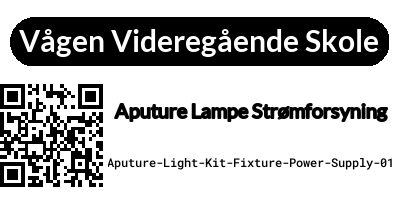
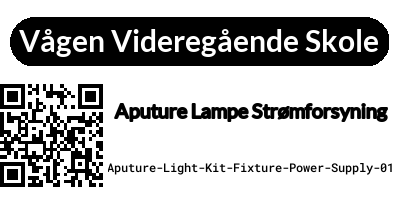
Migrate to Zebra - test docker

Changed region(s): [[0.2707, 0.7536, 0.9925, 0.8406]]

diff --git a/src/app.py b/src/app.py
@@ -1,40 +1,21 @@
 import io
 import os
-import time
 import atexit
 import signal
 from functools import wraps
 from threading import Thread
-
+from flask_cors import CORS
 import PIL.Image
 import flask
-# import usb.core
-# from brother_ql.backends.helpers import send
-# from brother_ql.conversion import convert
-# from brother_ql.raster import BrotherQLRaster
+from zebra import Zebra
+import zpl
 from dotenv import load_dotenv
-# from flask_cors import CORS
 
 from LabelGenerator import create_label, InventoryItem, LabelType
 
 load_dotenv()
 
-# Only supports 17x54 labels (for now) (1132x330 px)
-# TODO: Support more label sizes
-QL_LABEL = "50x26"
-LABEL_SIZE = ((50/25.4)*203, (26/25.4)*203)
-
 FQDN = os.getenv('FQDN', None)
-QL_PRINTER = os.getenv('QL_PRINTER', 'usb://0x04f9:0x209c')
-QL_MODEL = os.getenv('QL_MODEL', 'QL-810W')
-QL_BACKEND = 'pyusb'
-ID_VENDOR = int(QL_PRINTER.split('usb://')[1].split(':')[0], 16)
-ID_PRODUCT = int(QL_PRINTER.split(':')[2], 16)
-
-# The label needs to be offset to the right and down a bit, to center it on the label (in pixels)
-# This might be different depending on the printer model, not sure
-X_OFFSET = int(os.getenv('X_OFFSET', 15))
-Y_OFFSET = int(os.getenv('Y_OFFSET', -4))
 
 
 class PrintQueue(list):
@@ -45,26 +26,9 @@ class PrintQueue(list):
     def print_worker(self):
         fails = 0
         while self:
-            try:
-                label = self[0]
-                brother_print(label)
-                self.pop(0)
-                fails = 0
-                print('printed label')
-            except usb.core.USBError:
-                print('USB error, assuming print job was successful')
-                # (The printer connection is handled by the request,
-                # so if the request is successful, the printer is connected,
-                # and this is likely a false positive)
-                self.pop(0)
-            except Exception as e:
-                print('error', e, '(retrying in 60 seconds)')
-                fails += 1
-                time.sleep(5)  # wait 5 seconds before retrying
-            if fails > 10:
-                print('too many fails in a row, clearing queue')
-                self.clear()
-                fails = 0
+            label = self[0]
+            zebra_print(label)
+            self.pop(0)
         print('queue empty')
         self.running = False
 
@@ -75,16 +39,10 @@ class PrintQueue(list):
             self.running = True
             Thread(target=self.print_worker).start()
 
+
 queue = PrintQueue()
 app = flask.Flask(__name__)
 CORS(app)
-
-
-def offset_label(img: PIL.Image) -> PIL.Image:
-    """Create a new label with the given label image to center it on the label."""
-    new_label = PIL.Image.new("RGB", LABEL_SIZE, color="white")
-    new_label.paste(img, (X_OFFSET, Y_OFFSET))
-    return new_label
 
 
 def get_variant(variant: str) -> LabelType:
@@ -152,22 +110,13 @@ def preview():
 @use_fqdn_if_set
 def print_label():
     """Print the label with the given data."""
-    # Check if the printer is connected
-    try:
-        dev = usb.core.find(idVendor=ID_VENDOR, idProduct=ID_PRODUCT)
-        dev.reset()  # (Might not be needed)
-    # If this fails, it's probably because the printer is not connected, so just ignore it for now
-    # TODO: Proper error handling
-    except Exception:
-        return flask.jsonify({'error': 'Failed to print label'}), 500
-
     content_type = flask.request.headers.get('Content-Type')
     if content_type == 'application/json':
         data = flask.request.json
     else:
         data = flask.request.args
 
-    label = offset_label(label_from_request(data))
+    label = label_from_request(data)
     try:
         count = int(data.get('count', 1))
     except ValueError:
@@ -182,25 +131,15 @@ def print_label():
     }), 200
 
 
-def brother_print(im):
-    qlr = BrotherQLRaster(QL_MODEL)
-    qlr.exception_on_warning = True
+def zebra_print(im):
+    z = Zebra()
+    z.setqueue(z.getqueues()[0])
+    l = zpl.Label(50, 50)
+    l.origin(9.5, 0)
+    l.write_graphic(im, 32)
+    l.endorigin()
+    z.output(l.dumpZPL())
 
-    instructions = convert(
-        qlr=qlr,
-        images=[im],
-        label=QL_LABEL,
-        rotate=90,
-        threshold=70.0,
-        dither=False,
-        compress=False,
-        red=False,
-        dpi_600=True,
-        hq=True,
-        cut=True
-    )
-
-    send(instructions=instructions, printer_identifier=QL_PRINTER, backend_identifier=QL_BACKEND, blocking=True)
 
 def on_exit(signum=None, frame=None):
     queue.running = False
@@ -213,4 +152,5 @@ signal.signal(signal.SIGINT, on_exit)
 
 
 if __name__ == '__main__':
+    os.system('service cups start')
     app.run(host='0.0.0.0', port=5000)

diff --git a/src/LabelGenerator.py b/src/LabelGenerator.py
@@ -39,7 +39,7 @@ def _qr_label(content: InventoryItem) -> PIL.Image:
     font_logo = ImageFont.truetype(FONT_LOGO, size=int(ly / 6.8))
 
     qr_size = (int(ly*0.5), int(ly*0.5))
-    info_size = (int(lx) - int(ly*0.55), int(ly*0.5))
+    info_size = (int(lx) - int(ly*0.55), int(ly))
 
     # Create the QR code
     qr = qrcode.QRCode(border=0)
@@ -82,7 +82,7 @@ def _qr_label(content: InventoryItem) -> PIL.Image:
 
     # Draw the text
     draw_text(content.item_name, ly / 5 - 5, font_name, stroke_width=1)
-    draw_text(content.id, ly / 2 - 15, font_id)
+    draw_text(content.id, ly / 2 - 10, font_id)
 
     # Construct the label
     label = PIL.Image.new("RGB", (lx, ly), color="white")
@@ -99,7 +99,7 @@ def _barcode_label(content: InventoryItem) -> PIL.Image:
         'module_height': ly / 25,
         'module_width': ly / 742.857,
         'font_path': FONT_NAME,
-        'text_distance': 4,
+        'text_distance': 4
     }
     image = barcode.get('code128', content.id, writer=barcode.writer.ImageWriter()).render(options)
 
